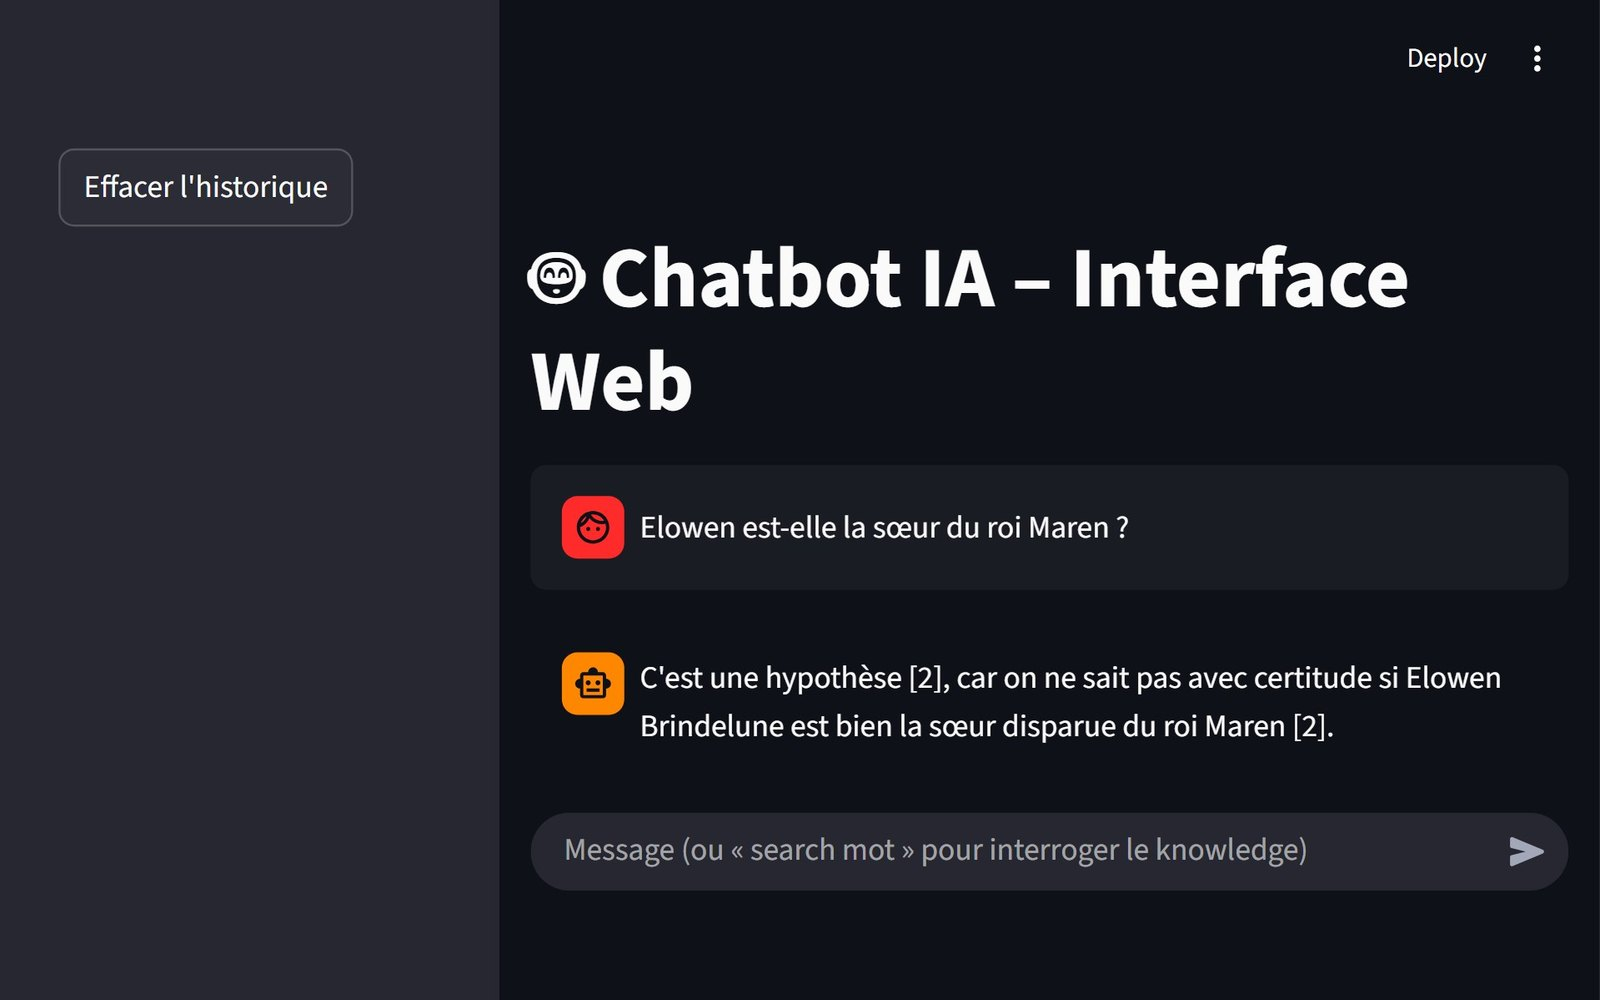
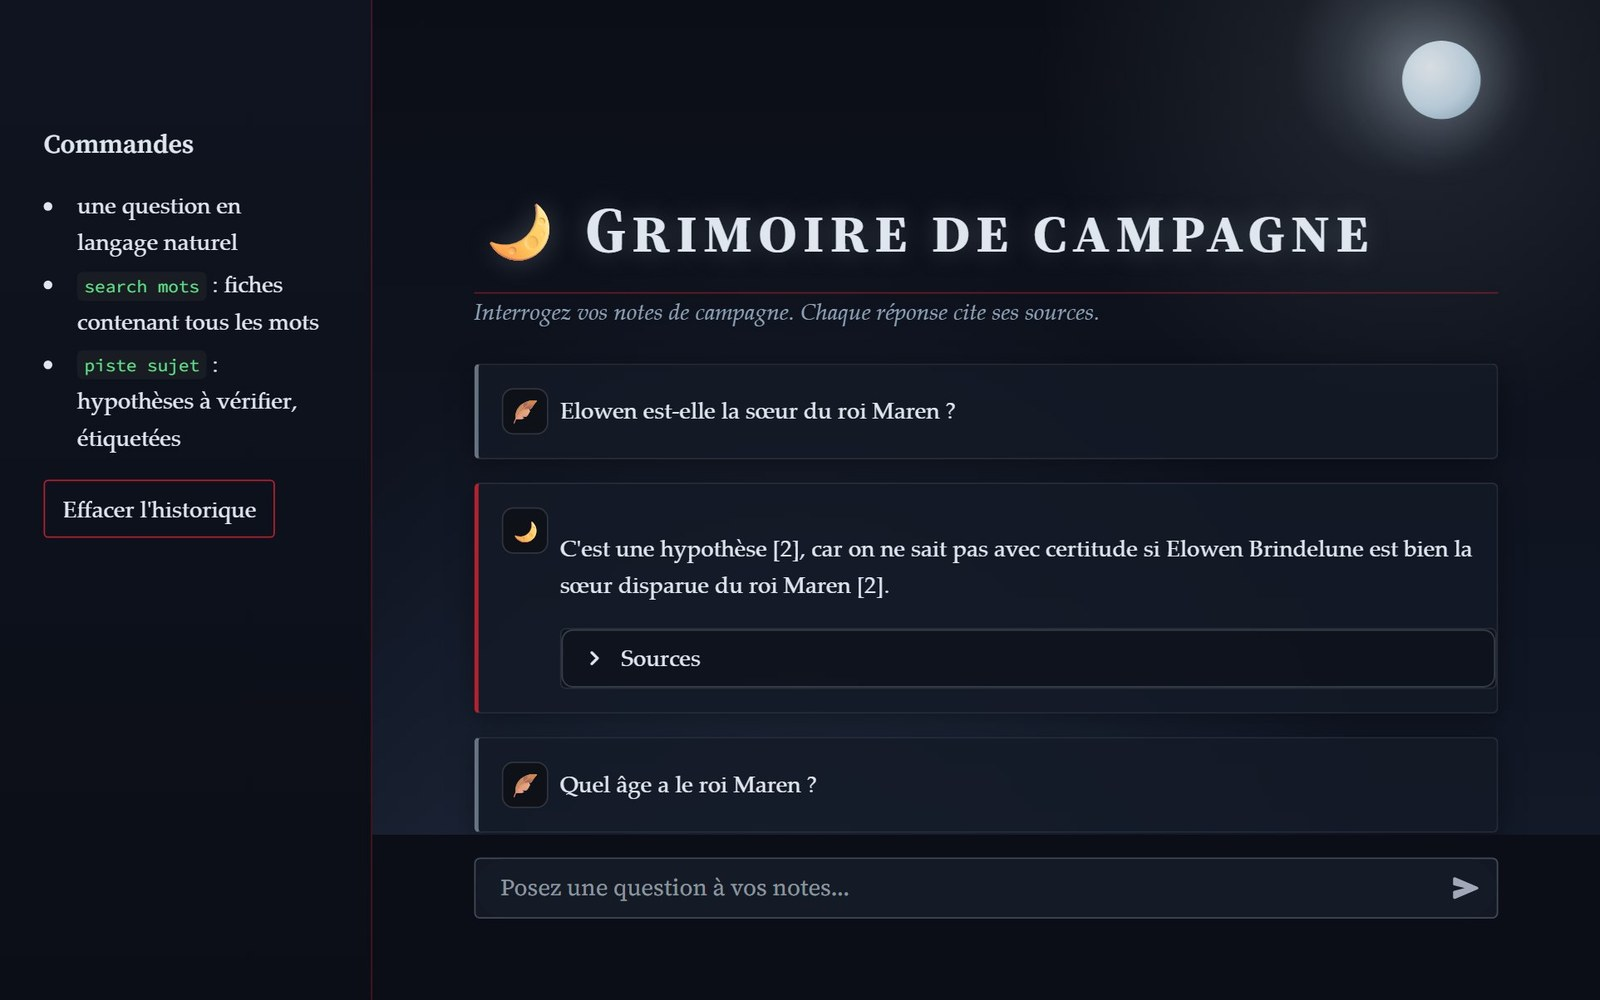
README : captures mises à jour (thème sombre, source dépliée)

diff --git a/README.md b/README.md
@@ -11,9 +11,9 @@ Un chatbot Python en français qui répond à partir d'une **base de connaissanc
 
 Captures de l'interface web (Streamlit) sur l'univers fictif d'exemple `data/sample_lore/` : une réponse prudente avec sa source quand les notes ne sont pas certaines, et un « je ne sais pas » quand l'information n'existe pas.
 
-| Question sur une hypothèse | Sources citées, puis abstention |
+| Question sur une hypothèse | Source citée, puis abstention |
 | --- | --- |
-| ![Question sur une hypothèse](docs/screenshots/chat-1.jpg) | ![Sources citées et je ne sais pas](docs/screenshots/chat-2.jpg) |
+| ![Question sur une hypothèse](docs/screenshots/chat-1.jpg) | ![Source citée dépliée, puis je ne sais pas](docs/screenshots/chat-2.jpg) |
 
 ## En bref
 
